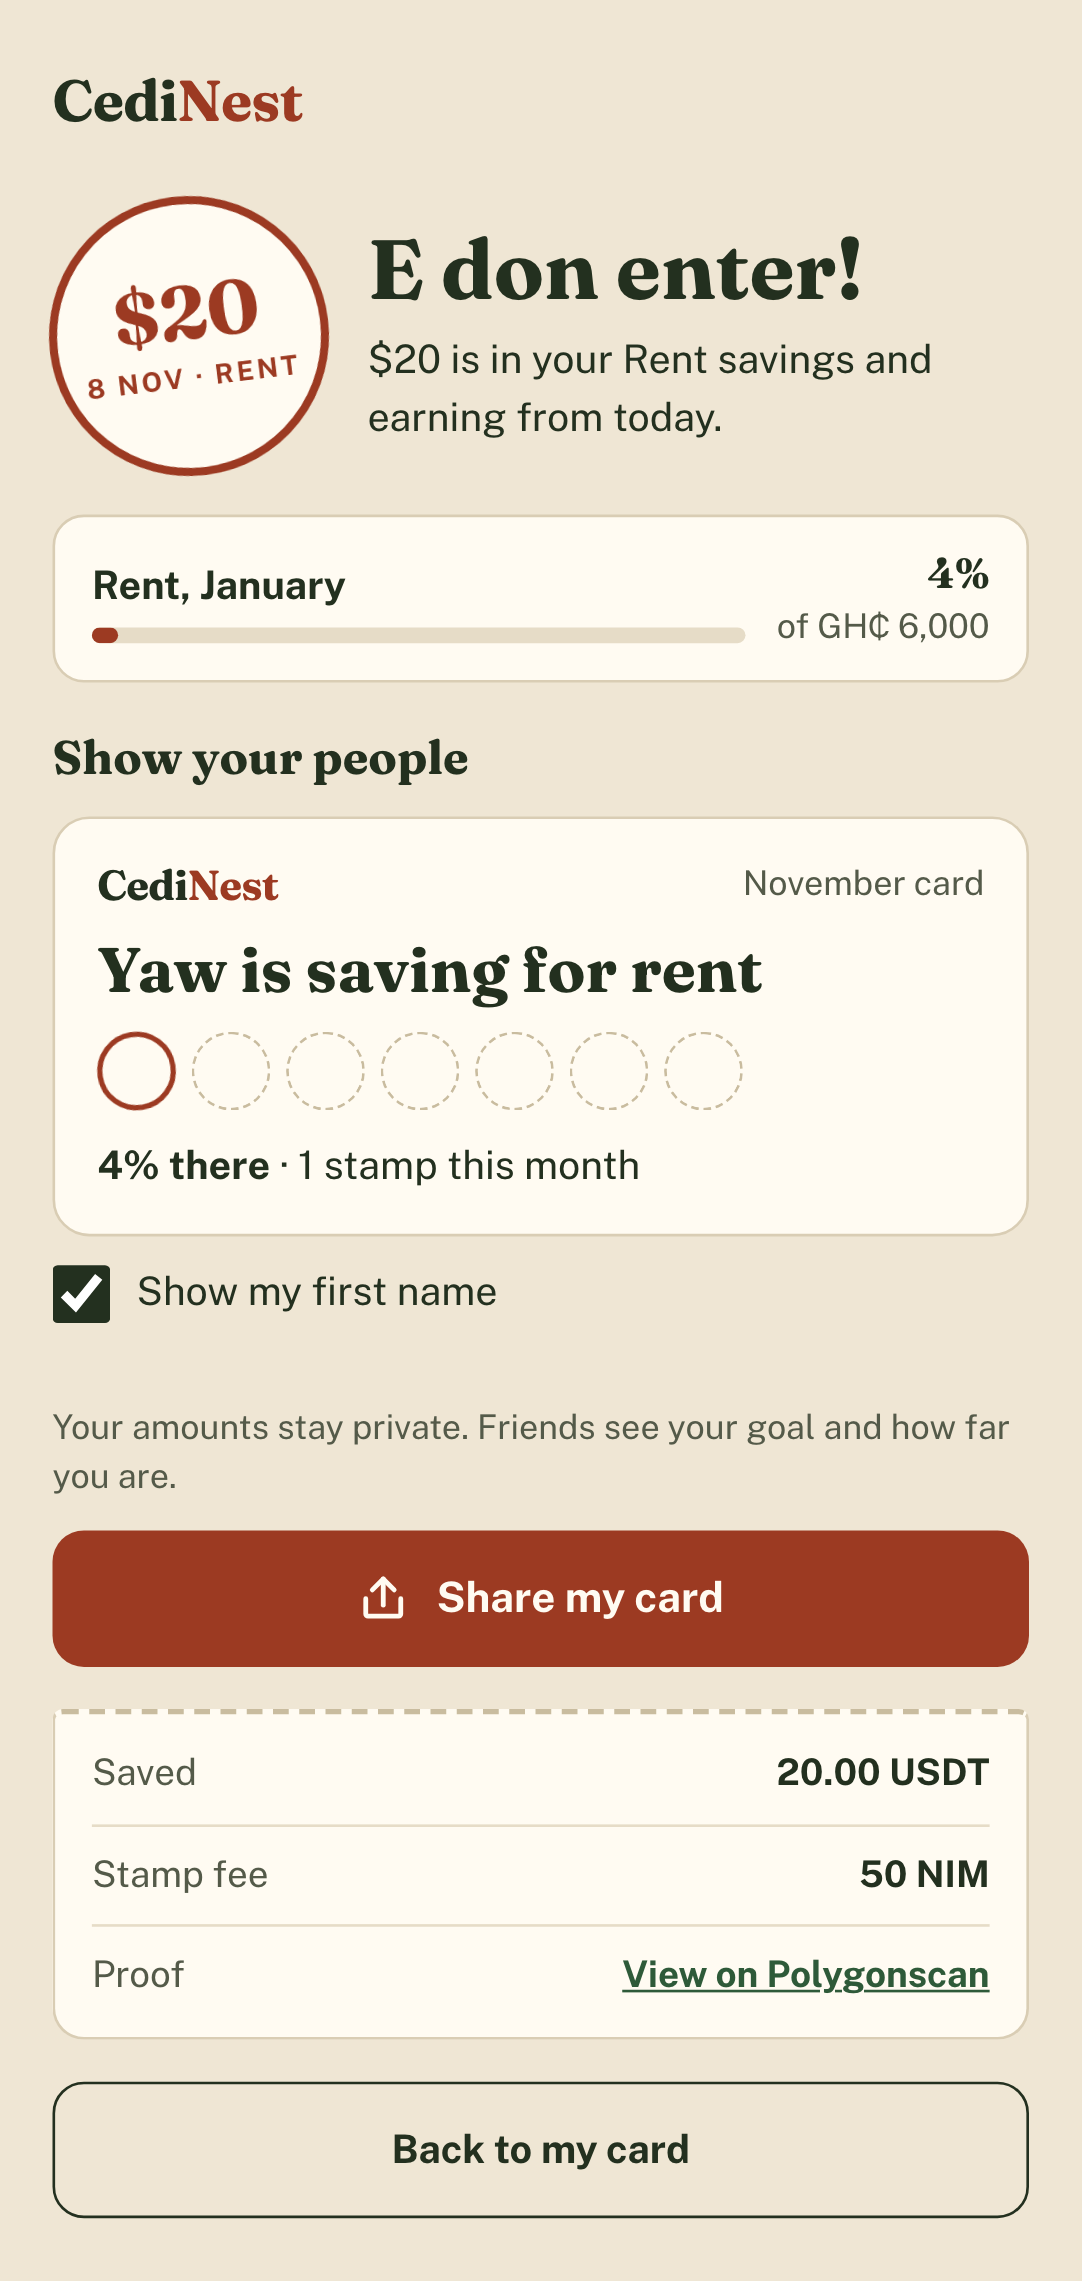
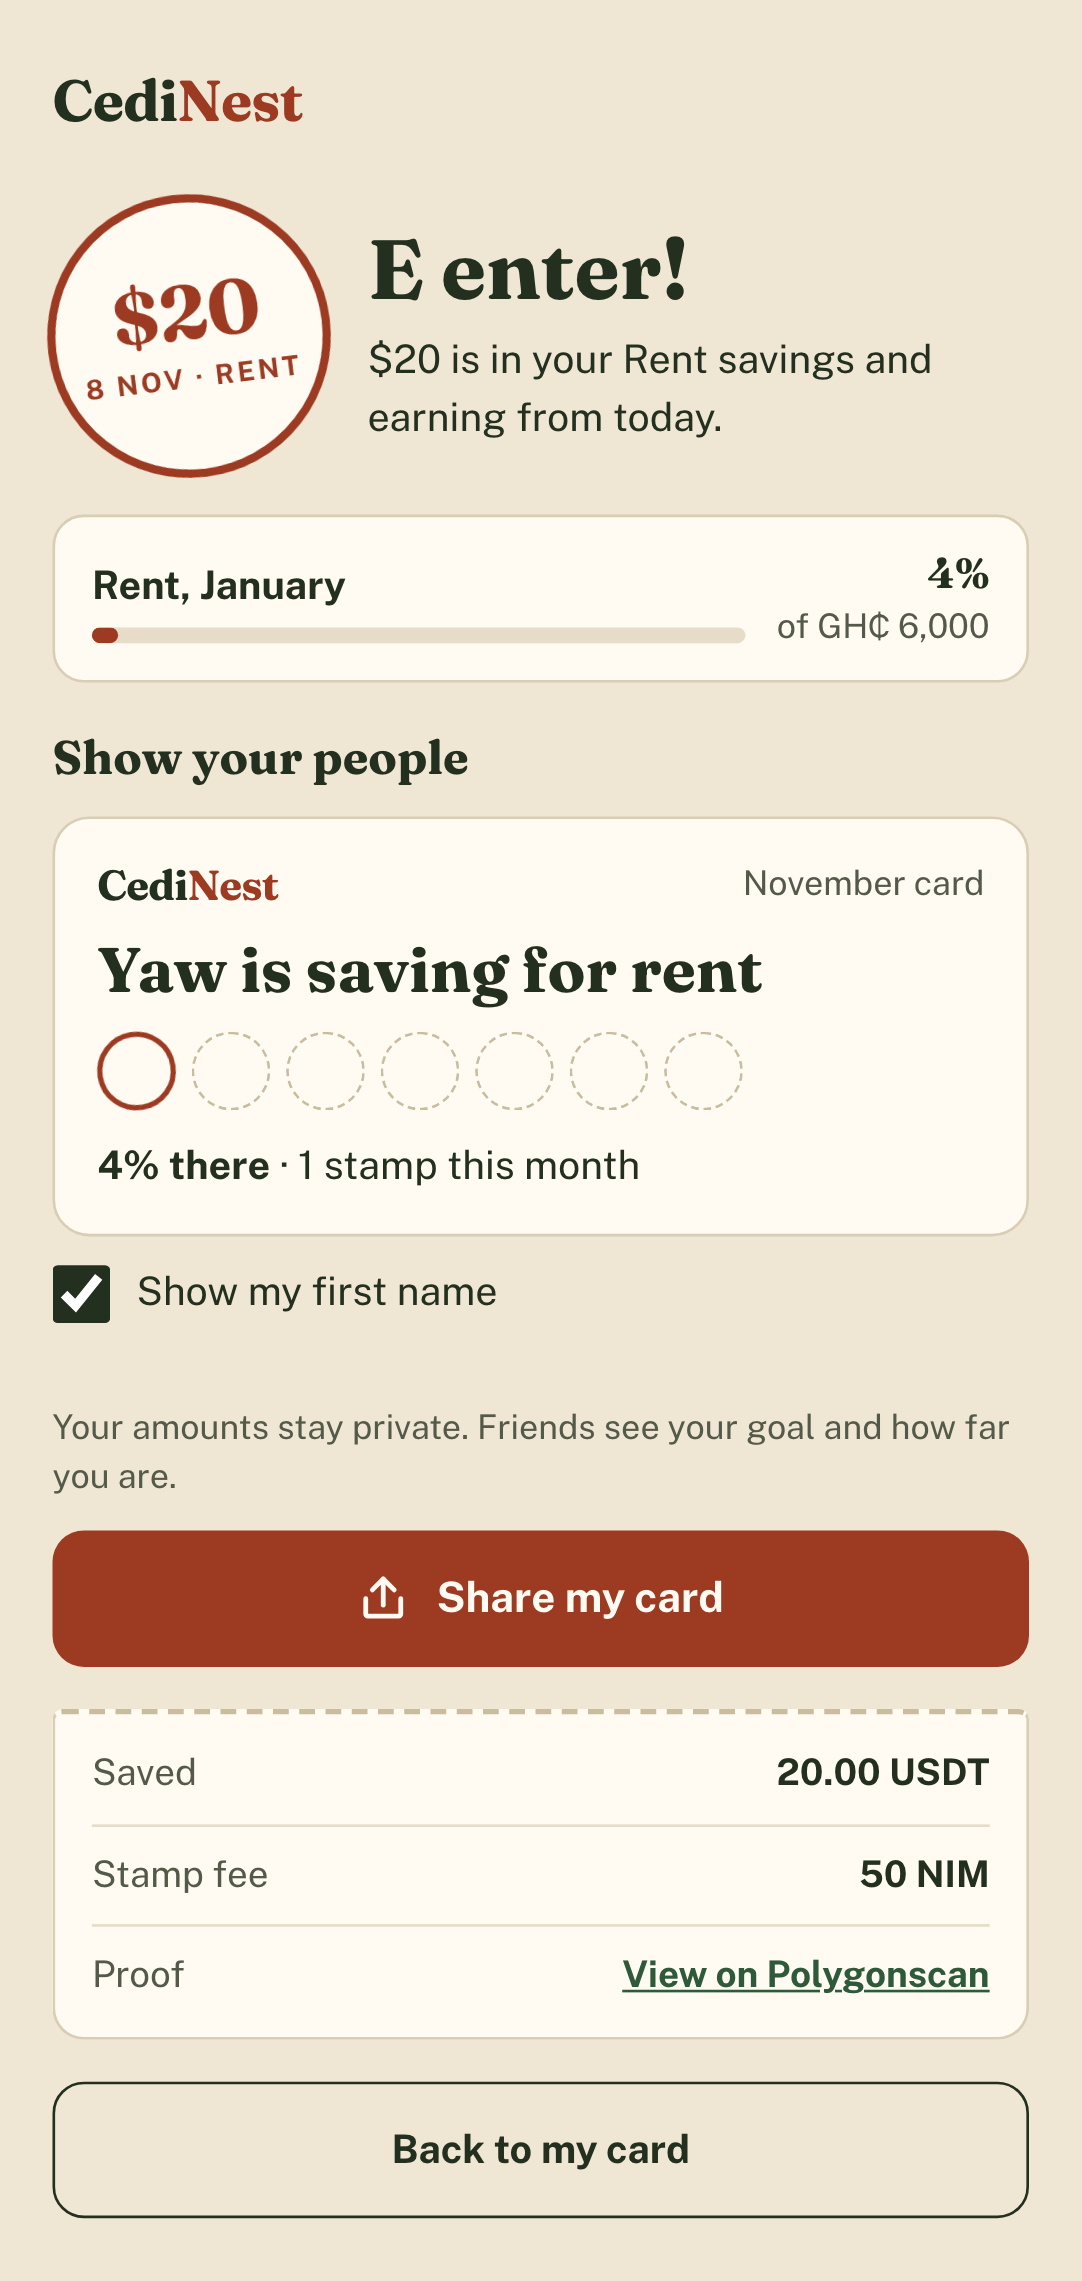
Copy: the saved screen now says "E enter!"
Updates the string, the e2e assertions, the README and the regenerated screenshots.

diff --git a/tests/e2e/cedinest.spec.ts b/tests/e2e/cedinest.spec.ts
@@ -68,7 +68,7 @@ test('stamps a $20 saving with two approvals and lands on the done screen', asyn
   await page.getByTestId('stamp-it').click()
 
   await expect(page).toHaveURL(/\/job\/j_/)
-  await expect(page.getByTestId('done-title')).toHaveText('E don enter!', { timeout: 20_000 })
+  await expect(page.getByTestId('done-title')).toHaveText('E enter!', { timeout: 20_000 })
   await expect(page.getByText('$20 is in your Rent savings and earning from today.')).toBeVisible()
   await expect(page.getByText('20.00 USDT')).toBeVisible()
   await expect(page.getByTestId('explorer-link')).toHaveAttribute('href', /polygonscan\.com\/tx\/0x[0-9a-f]{64}/)

diff --git a/tests/e2e/screenshots.spec.ts b/tests/e2e/screenshots.spec.ts
@@ -33,7 +33,7 @@ test('captures the main screens', async () => {
   await expect(page.getByTestId('goal-picked')).toHaveText('Rent, January')
   await shot('4-save')
   await page.getByTestId('stamp-it').click()
-  await expect(page.getByTestId('done-title')).toHaveText('E don enter!')
+  await expect(page.getByTestId('done-title')).toHaveText('E enter!')
   await shot('5-done')
   await page.getByTestId('back-home').click()
   await expect(page.getByTestId('stamp-summary')).toHaveText('1 stamp · $20 saved')

diff --git a/src/copy/en.ts b/src/copy/en.ts
@@ -134,7 +134,7 @@ export const en = {
   },
 
   done: {
-    title: 'E don enter!',
+    title: 'E enter!',
     body: '{usd} is in your {goal} savings and earning from today.',
     bodyNoGoal: '{usd} is in your savings and earning from today.',
     receiptSaved: 'Saved',

diff --git a/README.md b/README.md
@@ -12,7 +12,7 @@ can, and watch a monthly stamp card fill up, the way a susu collector's card doe
 <p>
   <img src="assets/screenshots/6-home.png" width="200" alt="Home: savings in cedis, the Since you started chart, the November stamp card and goals" />
   <img src="assets/screenshots/4-save.png" width="200" alt="Stamp a saving: amount, goal, stamp slip with the NIM fee" />
-  <img src="assets/screenshots/5-done.png" width="200" alt="Saved: E don enter, goal progress, share card and receipt" />
+  <img src="assets/screenshots/5-done.png" width="200" alt="Saved: E enter, goal progress, share card and receipt" />
 </p>
 
 Entry for the Nimiq Mini Apps Competition, Cycle III, **Earn** category.
@@ -43,7 +43,7 @@ user pays a small fee in NIM (about 50 NIM, around one US cent) and a relayer pa
 7. After the response (`waitUntil`), the API waits for the NIM payment to be final (memo, amount,
    recipient, execution result, macro-block rule), sends `depositFor` from the relayer wallet under a
    Postgres advisory lock, and waits for the receipt.
-8. The app polls `GET /api/jobs/:id` every 2 s and moves from "Stamping" to "E don enter!". The user
+8. The app polls `GET /api/jobs/:id` every 2 s and moves from "Stamping" to "E enter!". The user
    can close the app; the job finishes server-side.
 
 Withdrawals are the same flow with a permit on aPolUSDT and `withdrawFor`. "Take out everything"
